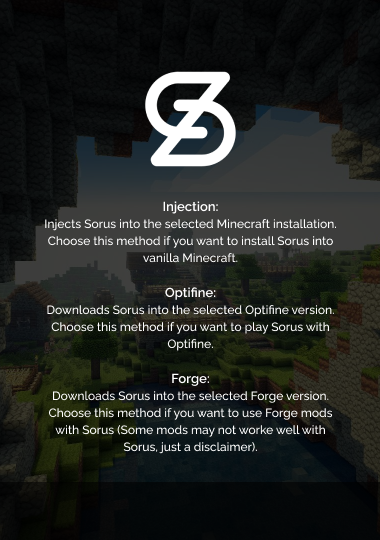
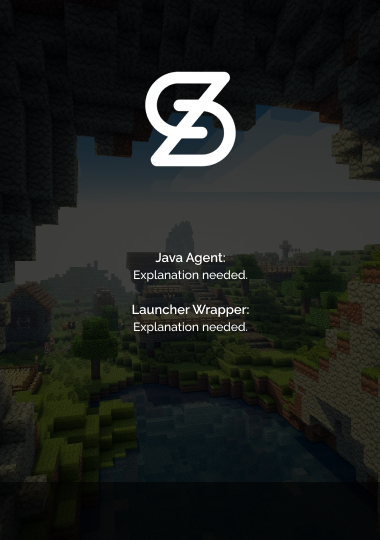
Fixed rushed stuff

Changed region(s): [[0.1158, 0.3556, 0.8684, 0.6519], [0.1158, 0.6815, 0.8684, 0.8593]]

diff --git a/src/main/java/org/sorus/installer/panels/SelectInstallationModePanel.java b/src/main/java/org/sorus/installer/panels/SelectInstallationModePanel.java
@@ -11,9 +11,9 @@ public class SelectInstallationModePanel extends BasePanel {
 
     private final String minecraftPath;
     private JLabel label;
-    private JButton injectButton;
-    private JButton optifineButton;
-    private JButton forgeButton;
+    private JButton javaagentButton;
+    private JButton launcherwrapperButton;
+    private JButton otherButton;
     private JButton learnMore;
 
     public SelectInstallationModePanel(String minecraftPath) throws IOException {
@@ -26,39 +26,39 @@ public class SelectInstallationModePanel extends BasePanel {
         label.setForeground(Color.WHITE);
         this.add(label);
 
-        injectButton = new JButton();
+        javaagentButton = new JButton();
         ImageIcon i1 = new ImageIcon(ImageIO.read(
-                Objects.requireNonNull(SelectInstallationModePanel.class.getClassLoader().getResourceAsStream("mclogo.png"))));
-        injectButton.setIcon(i1);
-        injectButton.setToolTipText("Injection");
-        injectButton.setSize(96,96);
-        injectButton.setLocation(21,245);
-        injectButton.setFocusable(false);
-        injectButton.addActionListener(this::openInjectionPanel);
-        this.add(injectButton);
+                Objects.requireNonNull(SelectInstallationModePanel.class.getClassLoader().getResourceAsStream("javalogo.png"))));
+        javaagentButton.setIcon(i1);
+        javaagentButton.setToolTipText("Java Agent");
+        javaagentButton.setSize(96,96);
+        javaagentButton.setLocation(21,245);
+        javaagentButton.setFocusable(false);
+        javaagentButton.addActionListener(this::openInjectionPanel);
+        this.add(javaagentButton);
 
-        optifineButton = new JButton();
+        launcherwrapperButton = new JButton();
         ImageIcon i2 = new ImageIcon(ImageIO.read(
-                Objects.requireNonNull(SelectInstallationModePanel.class.getClassLoader().getResourceAsStream("oflogo.png"))));
-        optifineButton.setIcon(i2);
-        optifineButton.setToolTipText("Optifine");
-        optifineButton.setSize(96,96);
-        optifineButton.setLocation(140,245);
-        optifineButton.setFocusable(false);
-        optifineButton.addActionListener(this::openLaunchWrapperPanel);
-        this.add(optifineButton);
+                Objects.requireNonNull(SelectInstallationModePanel.class.getClassLoader().getResourceAsStream("mclogo.png"))));
+        launcherwrapperButton.setIcon(i2);
+        launcherwrapperButton.setToolTipText("Launcher Wrapper");
+        launcherwrapperButton.setSize(96,96);
+        launcherwrapperButton.setLocation(140,245);
+        launcherwrapperButton.setFocusable(false);
+        launcherwrapperButton.addActionListener(this::openLaunchWrapperPanel);
+        this.add(launcherwrapperButton);
 
-        forgeButton = new JButton();
+        otherButton = new JButton();
         ImageIcon i3 = new ImageIcon(ImageIO.read(
-                Objects.requireNonNull(SelectInstallationModePanel.class.getClassLoader().getResourceAsStream("forgelogo.png"))));
-        forgeButton.setIcon(i3);
-        forgeButton.setToolTipText("Forge");
-        forgeButton.setSize(96,96);
-        forgeButton.setLocation(259,245);
-        forgeButton.setFocusable(false);
-        //forgeButton.addActionListener(this::openForgePanel);
-        forgeButton.setEnabled(false);
-        this.add(forgeButton);
+                Objects.requireNonNull(SelectInstallationModePanel.class.getClassLoader().getResourceAsStream("questionmark.png"))));
+        otherButton.setIcon(i3);
+        //otherButton.setToolTipText("");
+        otherButton.setSize(96,96);
+        otherButton.setLocation(259,245);
+        otherButton.setFocusable(false);
+        otherButton.addActionListener(this::openForgePanel);
+        otherButton.setEnabled(false);
+        this.add(otherButton);
 
         learnMore = new JButton(" Learn More");
         ImageIcon i4 = new ImageIcon(ImageIO.read(
